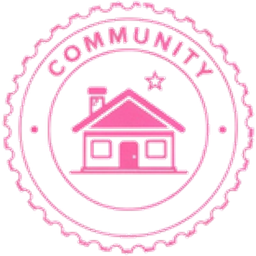
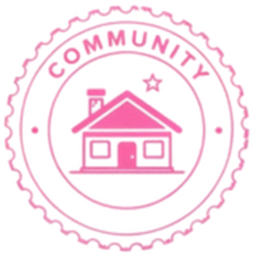
Summer Slam: update passport seal artwork

Changed region(s): [[0.0, 0.0, 1.0, 1.0], [0.1875, 0.375, 0.2188, 0.5625], [0.125, 0.4688, 0.1562, 0.5312]]

diff --git a/src/pages/summer-slam/_components/passport-assets.ts b/src/pages/summer-slam/_components/passport-assets.ts
@@ -2,7 +2,7 @@
  * Shared Summer Slam artwork — used by landing, live passport, and demo passport.
  * Bump ASSET_VERSION whenever files in /public/summer-slam change.
  */
-export const ASSET_VERSION = "2026-07-17-new-header-v1";
+export const ASSET_VERSION = "2026-07-18-seals-v2";
 
 export function summerSlamAsset(path: string): string {
   return `${path}?v=${ASSET_VERSION}`;
